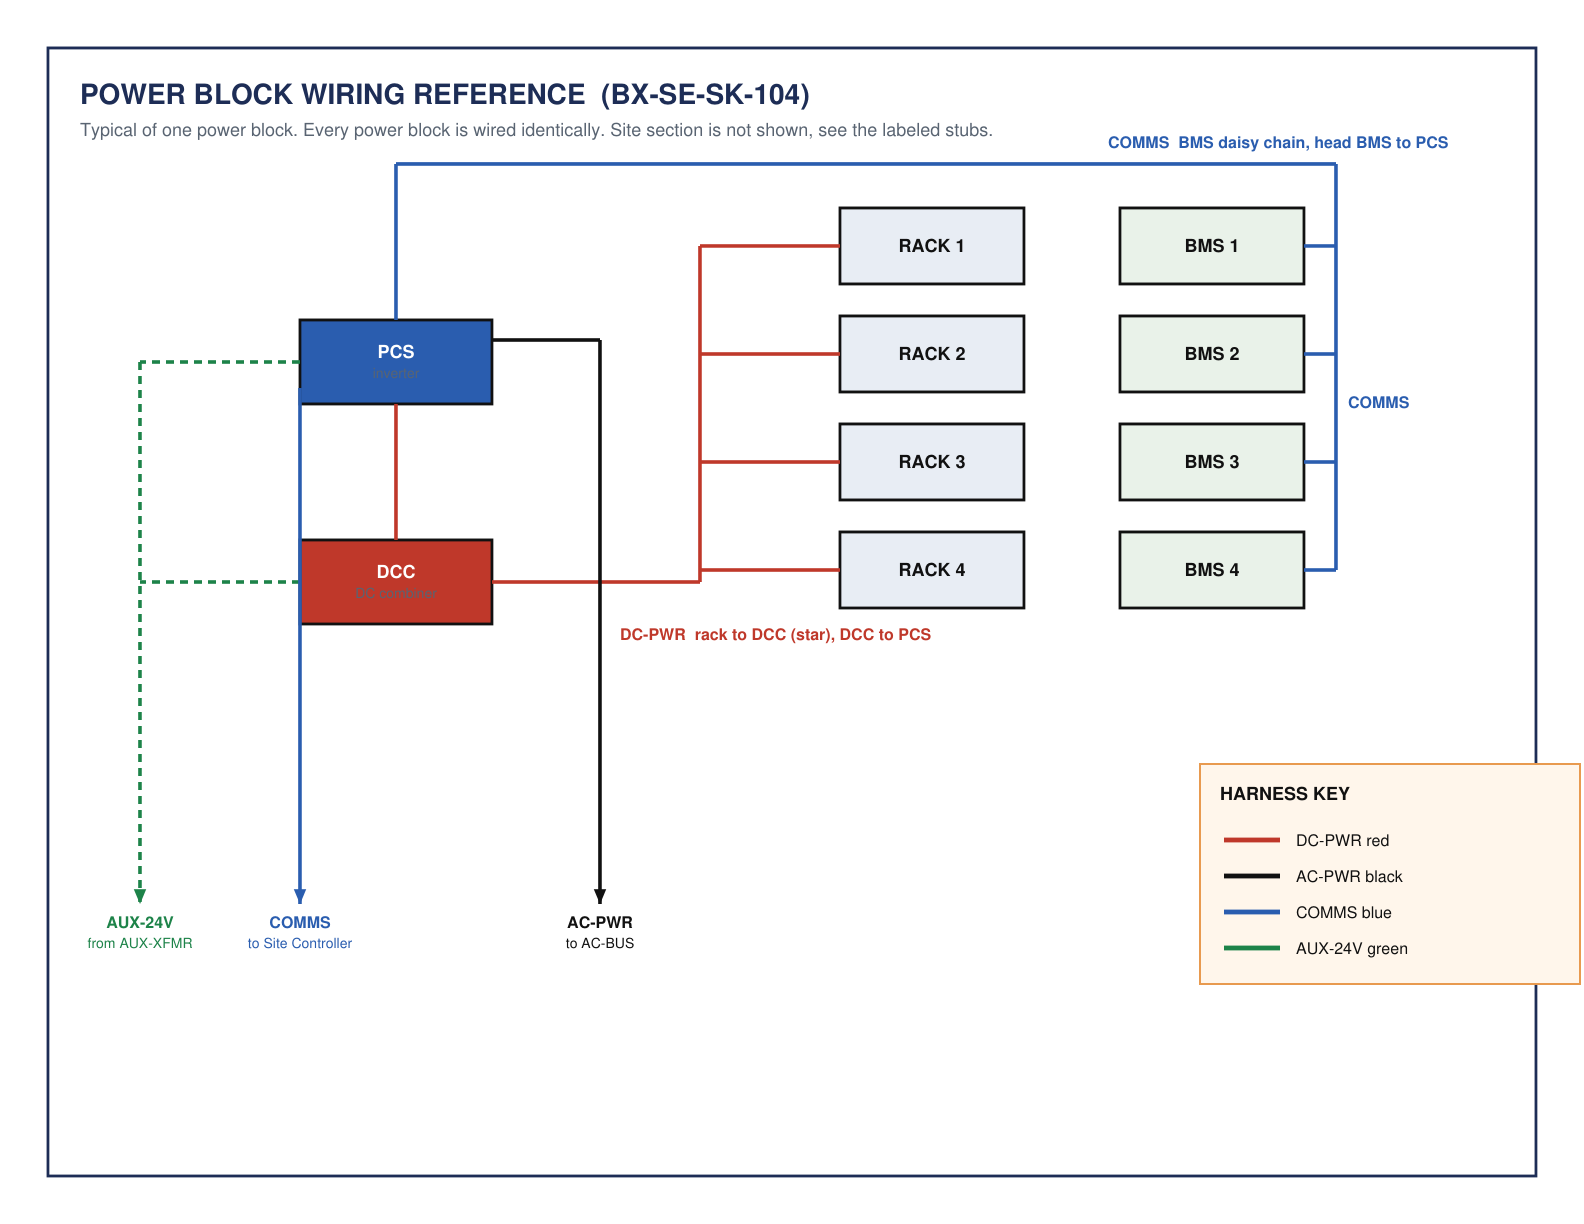
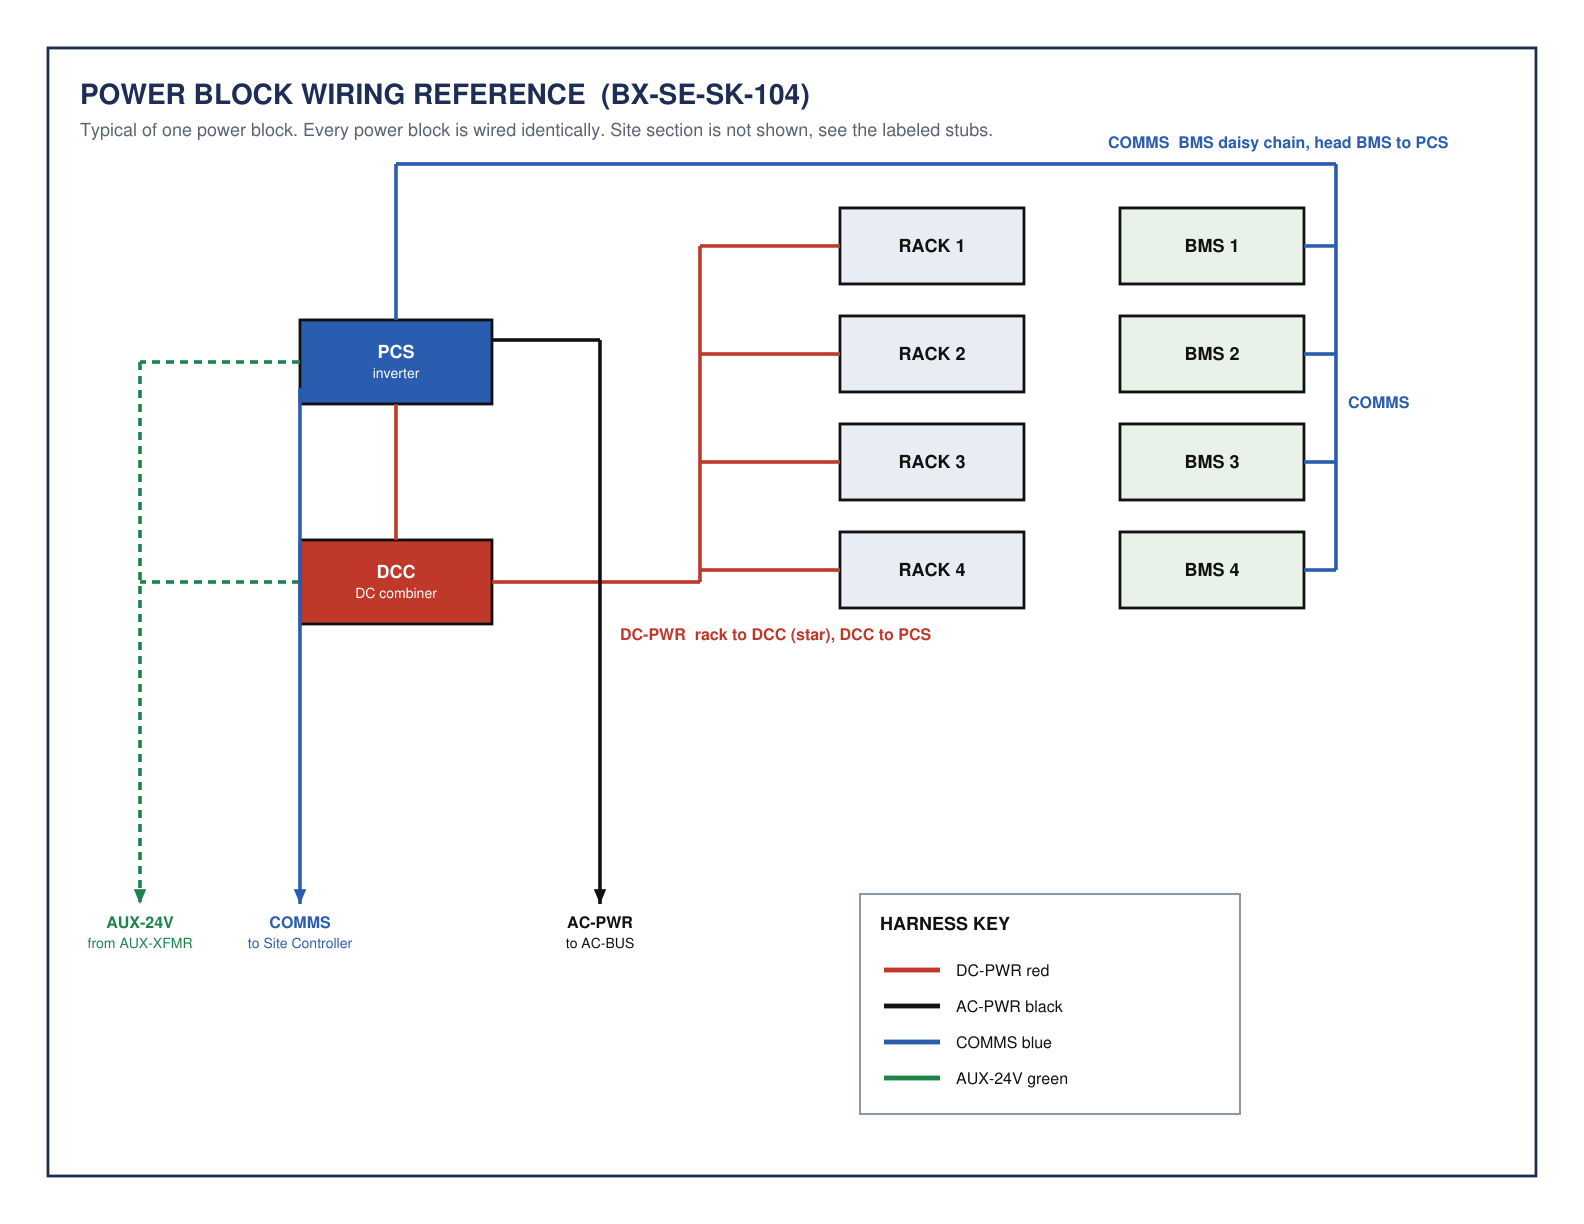
Reference PDF: move harness key lower-left, white legend fill, white PCS/DCC sublabels

diff --git a/bess-block-diagram/scripts/build_refpdf.py b/bess-block-diagram/scripts/build_refpdf.py
@@ -27,7 +27,9 @@ def box(x,y,w,h,label,sub=None,fill="#FFFFFF",tcol=INK):
     c.setFillColor(tcol); c.setFont("Helvetica-Bold",9)
     c.drawCentredString(x+w/2,y+h/2+(2 if sub else -3),label)
     if sub:
-        c.setFont("Helvetica",7); c.setFillColor(GREY); c.drawCentredString(x+w/2,y+h/2-8,sub)
+        # sublabel matches the main-label color (white on the dark PCS/DCC boxes)
+        subcol = tcol if tcol!=INK else GREY
+        c.setFont("Helvetica",7); c.setFillColor(subcol); c.drawCentredString(x+w/2,y+h/2-8,sub)
 
 def line(x1,y1,x2,y2,color,wid=1.8,dash=None):
     c.setStrokeColor(color); c.setLineWidth(wid)
@@ -106,9 +108,9 @@ arrow(ac_x,stub_y,270,BLACK)
 tag(ac_x, stub_y-12, "AC-PWR", BLACK, 8, center=True)
 tag(ac_x, stub_y-22, "to AC-BUS", BLACK, 7, center=True, bold=False)
 
-# legend
-lx,ly=600,120
-c.setFillColor(HexColor("#FFF6EC")); c.setStrokeColor(HexColor("#E89B4F")); c.setLineWidth(1.0)
+# legend (lower and to the left, plain white fill with a neutral border)
+lx,ly=430,55
+c.setFillColor(HexColor("#FFFFFF")); c.setStrokeColor(HexColor("#8899AA")); c.setLineWidth(1.0)
 c.rect(lx,ly,190,110,stroke=1,fill=1)
 tag(lx+10,ly+92,"HARNESS KEY",INK,9)
 for i,(lab,col) in enumerate([("DC-PWR red",RED),("AC-PWR black",BLACK),("COMMS blue",BLUE),("AUX-24V green",GREEN)]):
